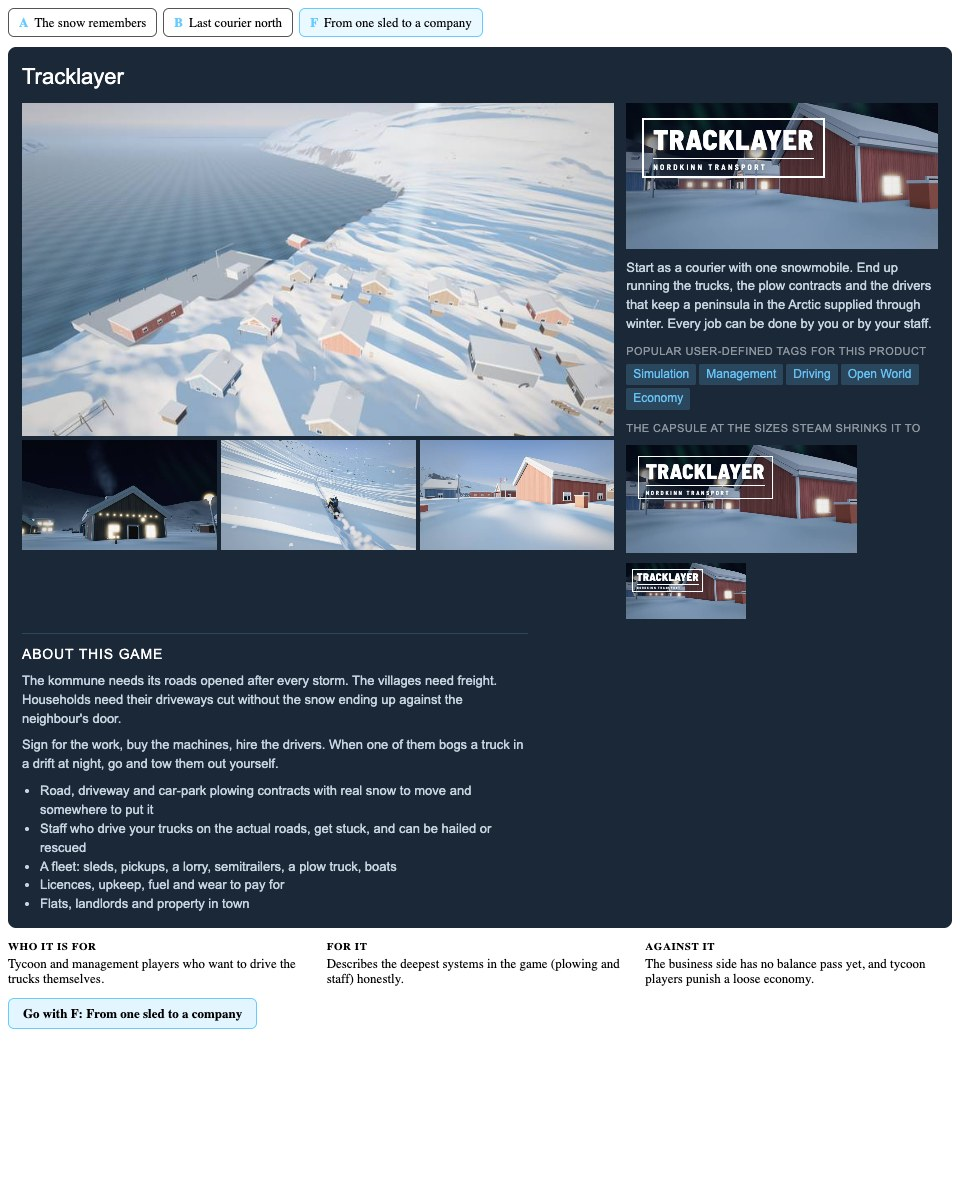
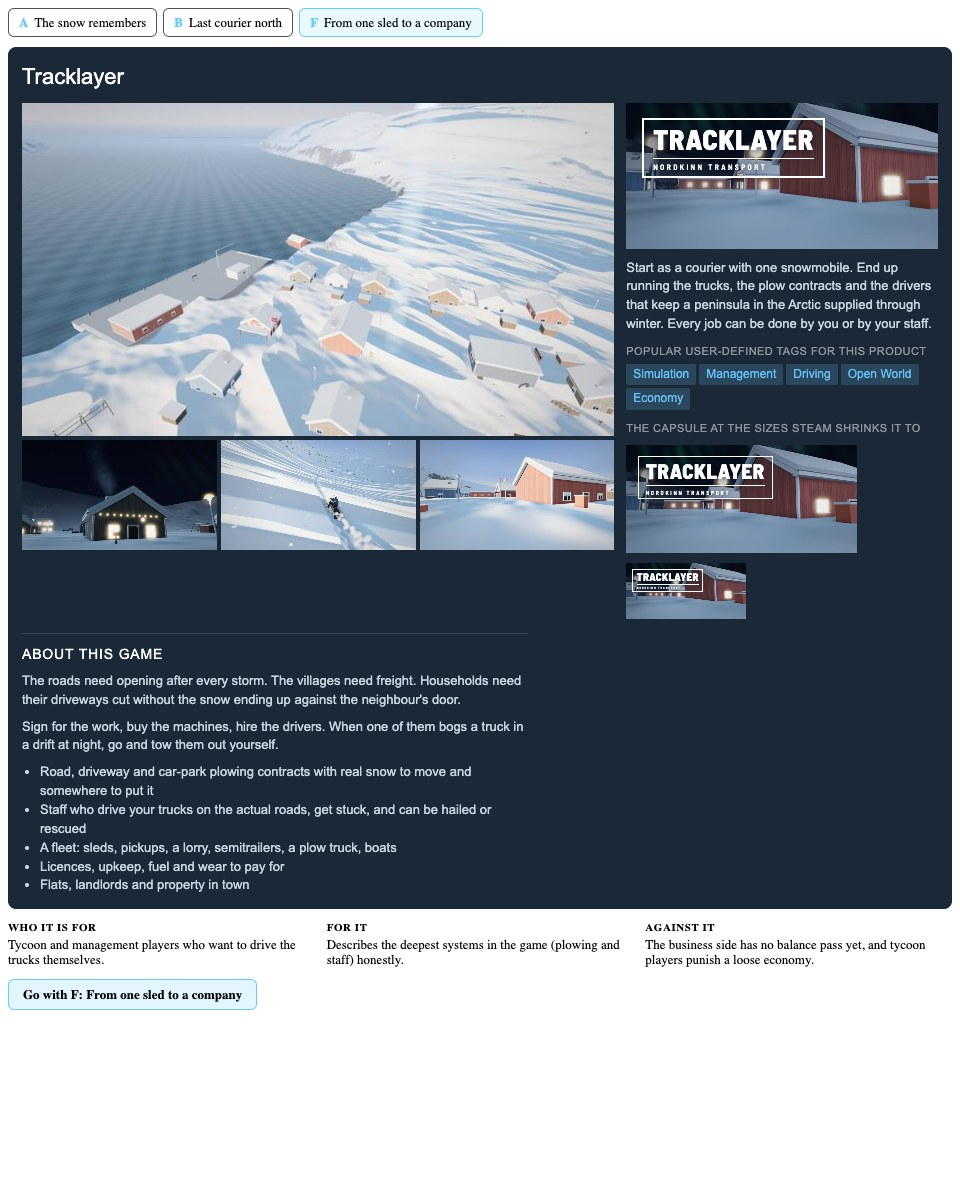
Steam store option F: no kommune in the text

Changed region(s): [[0.0, 0.5492, 1.0, 0.8847]]

diff --git a/steam/store/options.html b/steam/store/options.html
@@ -108,7 +108,7 @@
 <div><div class="cap l-stamp at-tl"><div class="im i-night_town_street_up" style="background-position:50% 70%"></div><div class="scrim"></div><div class="logo">Tracklayer<small>Nordkinn Transport</small></div></div><p class="short">Start as a courier with one snowmobile. End up running the trucks, the plow contracts and the drivers that keep a peninsula in the Arctic supplied through winter. Every job can be done by you or by your staff.</p>
 <div class="meta">Popular user-defined tags for this product</div><div class="tags"><span>Simulation</span><span>Management</span><span>Driving</span><span>Open World</span><span>Economy</span></div>
 <div class="meta">The capsule at the sizes Steam shrinks it to</div><div class="small"><div class="cap l-stamp at-tl"><div class="im i-night_town_street_up" style="background-position:50% 70%"></div><div class="scrim"></div><div class="logo">Tracklayer<small>Nordkinn Transport</small></div></div><div class="cap l-stamp at-tl s2"><div class="im i-night_town_street_up" style="background-position:50% 70%"></div><div class="scrim"></div><div class="logo">Tracklayer<small>Nordkinn Transport</small></div></div></div></div></div>
-<div class="about"><h3>About this game</h3><p>The kommune needs its roads opened after every storm. The villages need freight. Households need their driveways cut without the snow ending up against the neighbour&#x27;s door.</p><p>Sign for the work, buy the machines, hire the drivers. When one of them bogs a truck in a drift at night, go and tow them out yourself.</p><ul><li>Road, driveway and car-park plowing contracts with real snow to move and somewhere to put it</li><li>Staff who drive your trucks on the actual roads, get stuck, and can be hailed or rescued</li><li>A fleet: sleds, pickups, a lorry, semitrailers, a plow truck, boats</li><li>Licences, upkeep, fuel and wear to pay for</li><li>Flats, landlords and property in town</li></ul></div></div>
+<div class="about"><h3>About this game</h3><p>The roads need opening after every storm. The villages need freight. Households need their driveways cut without the snow ending up against the neighbour&#x27;s door.</p><p>Sign for the work, buy the machines, hire the drivers. When one of them bogs a truck in a drift at night, go and tow them out yourself.</p><ul><li>Road, driveway and car-park plowing contracts with real snow to move and somewhere to put it</li><li>Staff who drive your trucks on the actual roads, get stuck, and can be hailed or rescued</li><li>A fleet: sleds, pickups, a lorry, semitrailers, a plow truck, boats</li><li>Licences, upkeep, fuel and wear to pay for</li><li>Flats, landlords and property in town</li></ul></div></div>
 <div class="notes"><div><h4>Who it is for</h4><p>Tycoon and management players who want to drive the trucks themselves.</p></div><div><h4>For it</h4><p>Describes the deepest systems in the game (plowing and staff) honestly.</p></div><div><h4>Against it</h4><p>The business side has no balance pass yet, and tycoon players punish a loose economy.</p></div></div>
 <button class="pick" data-hermes-send="Go with Steam store page option F (From one sled to a company) for Tracklayer.">Go with F: From one sled to a company</button>
 </div>

diff --git a/steam/store/make_options.py b/steam/store/make_options.py
@@ -44,7 +44,7 @@ OPTIONS = [
     cap="night_town_street_up", capx=50, capy=70, logo="stamp", pos="tl", sub="Nordkinn Transport",
     shots=["noon_town_over", "night_town_house0_up", "noon_rear_trail", "noon_street"],
     short="Start as a courier with one snowmobile. End up running the trucks, the plow contracts and the drivers that keep a peninsula in the Arctic supplied through winter. Every job can be done by you or by your staff.",
-    about=["The kommune needs its roads opened after every storm. The villages need freight. Households need their driveways cut without the snow ending up against the neighbour's door.",
+    about=["The roads need opening after every storm. The villages need freight. Households need their driveways cut without the snow ending up against the neighbour's door.",
            "Sign for the work, buy the machines, hire the drivers. When one of them bogs a truck in a drift at night, go and tow them out yourself."],
     bullets=["Road, driveway and car-park plowing contracts with real snow to move and somewhere to put it",
              "Staff who drive your trucks on the actual roads, get stuck, and can be hailed or rescued",

diff --git a/steam/store/options.md b/steam/store/options.md
@@ -53,7 +53,7 @@ Pay buys a better sled, then a pickup, then a lorry. The harder the country you 
 
 **About this game**
 
-The kommune needs its roads opened after every storm. The villages need freight. Households need their driveways cut without the snow ending up against the neighbour's door.
+The roads need opening after every storm. The villages need freight. Households need their driveways cut without the snow ending up against the neighbour's door.
 
 Sign for the work, buy the machines, hire the drivers. When one of them bogs a truck in a drift at night, go and tow them out yourself.
 
